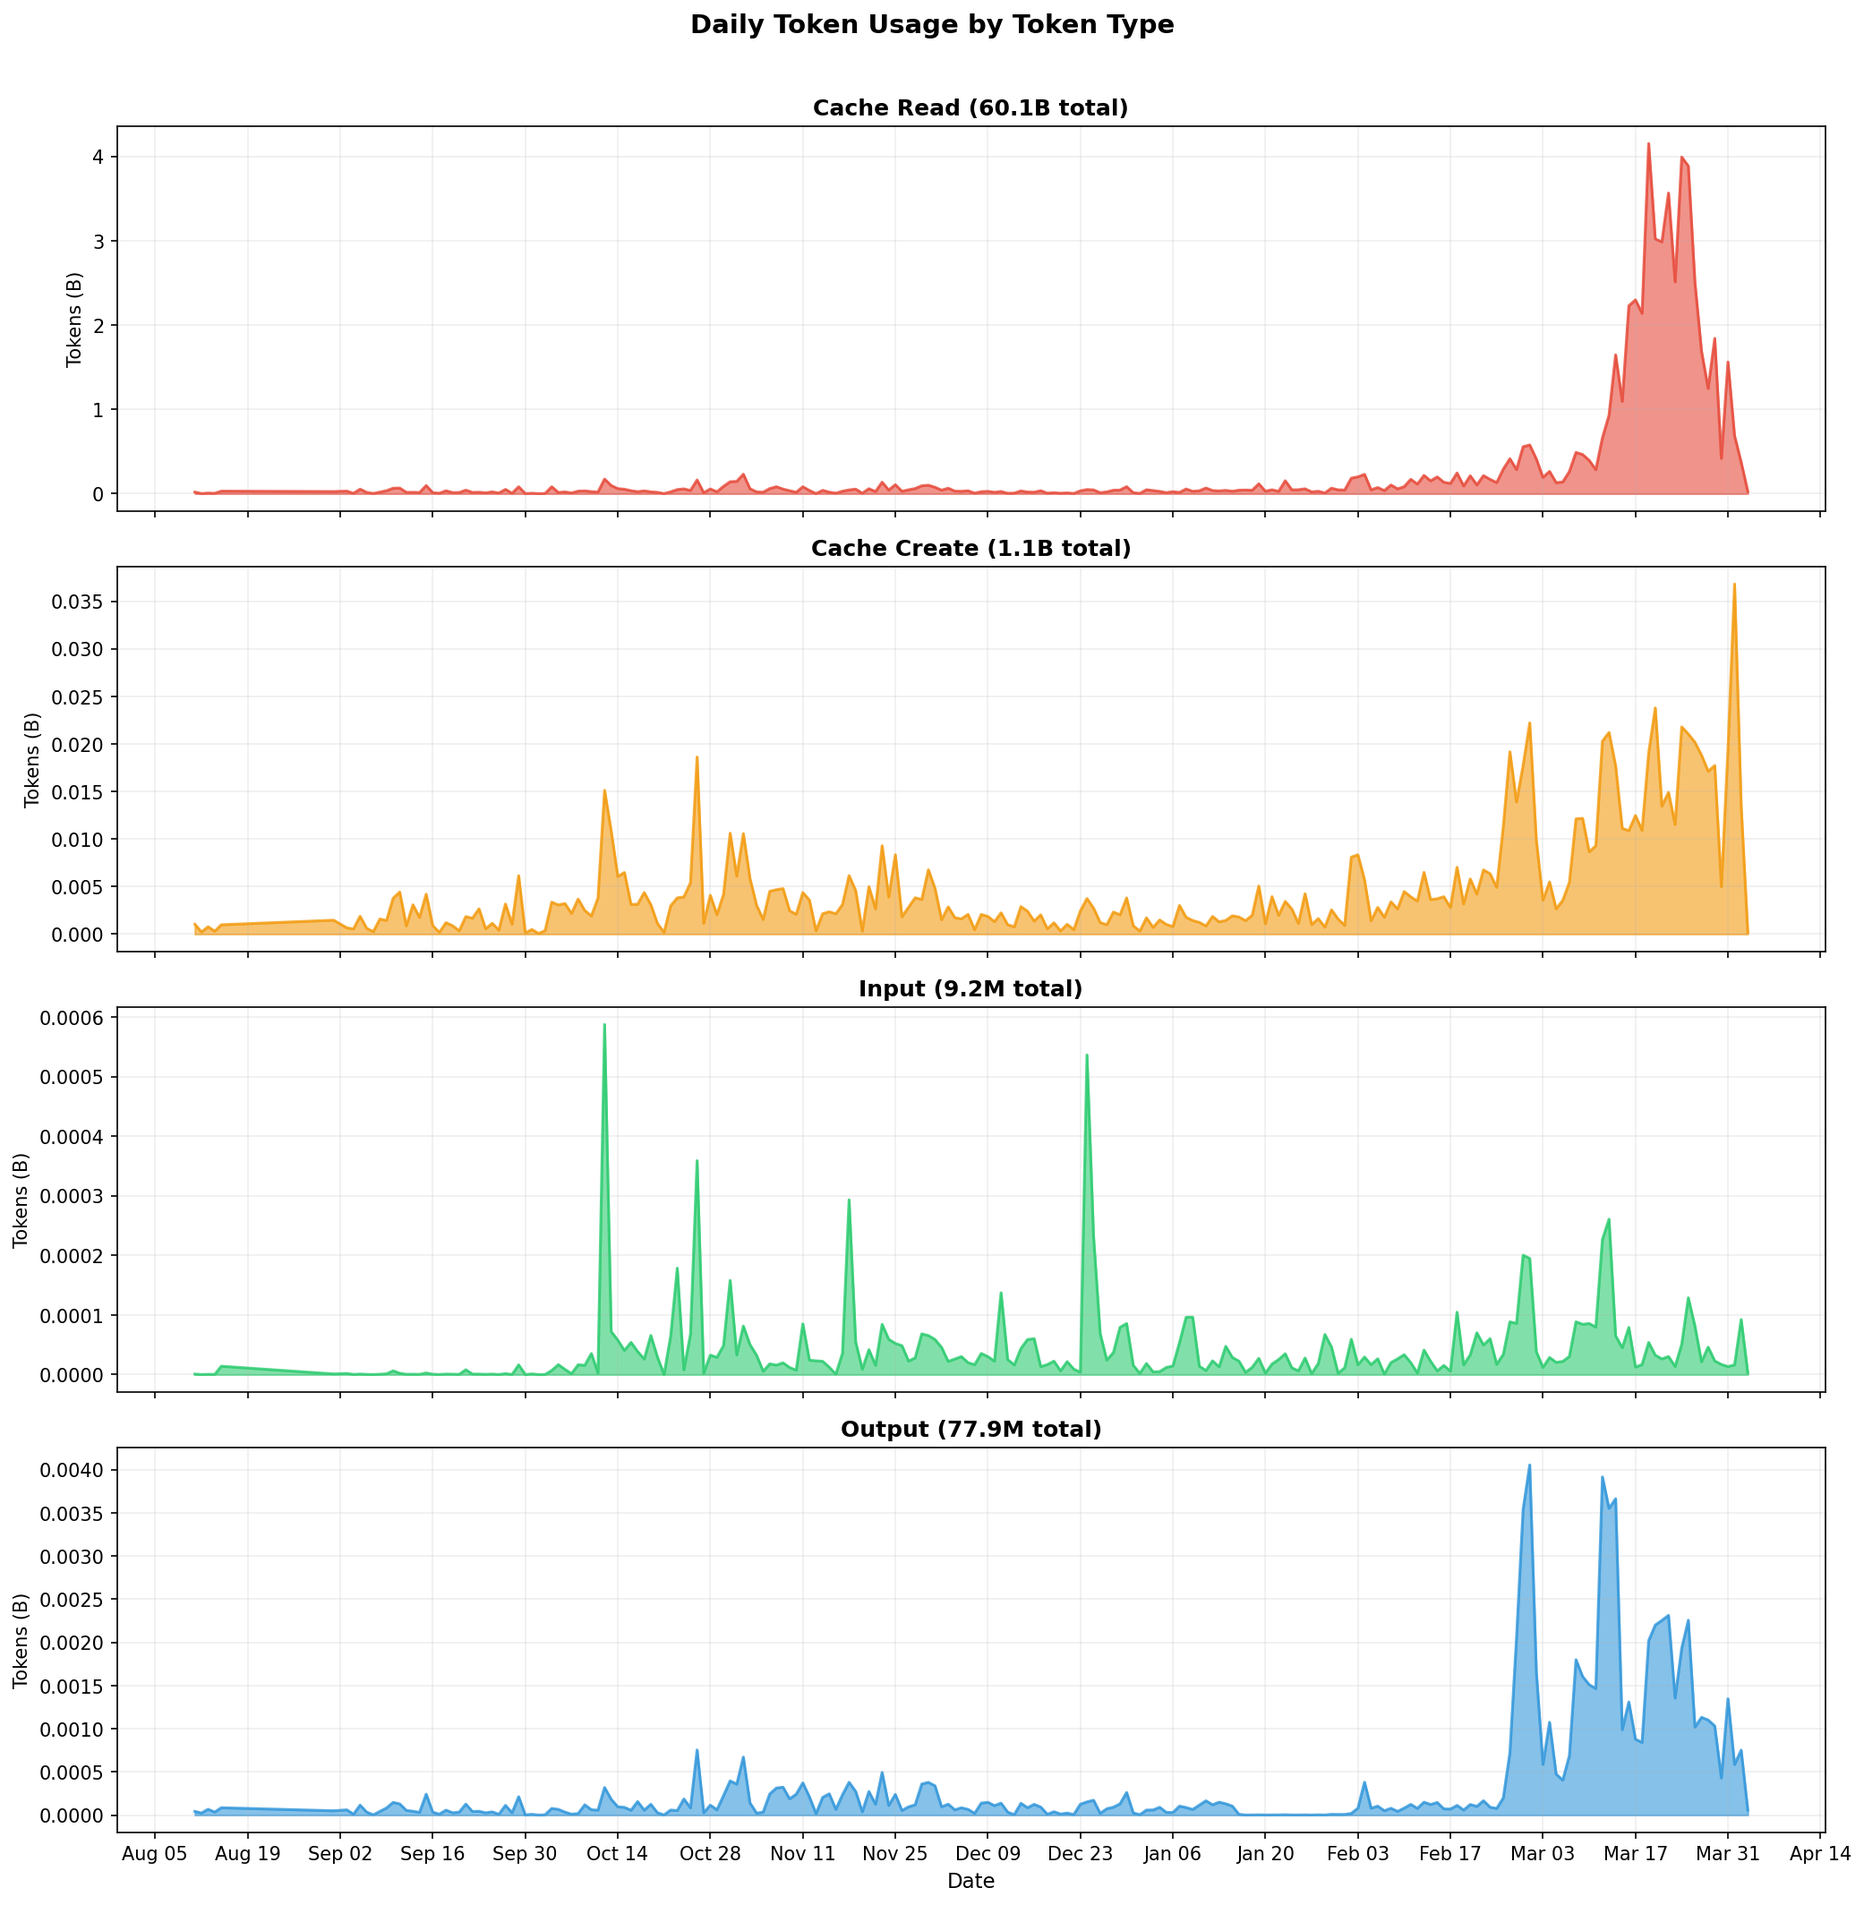
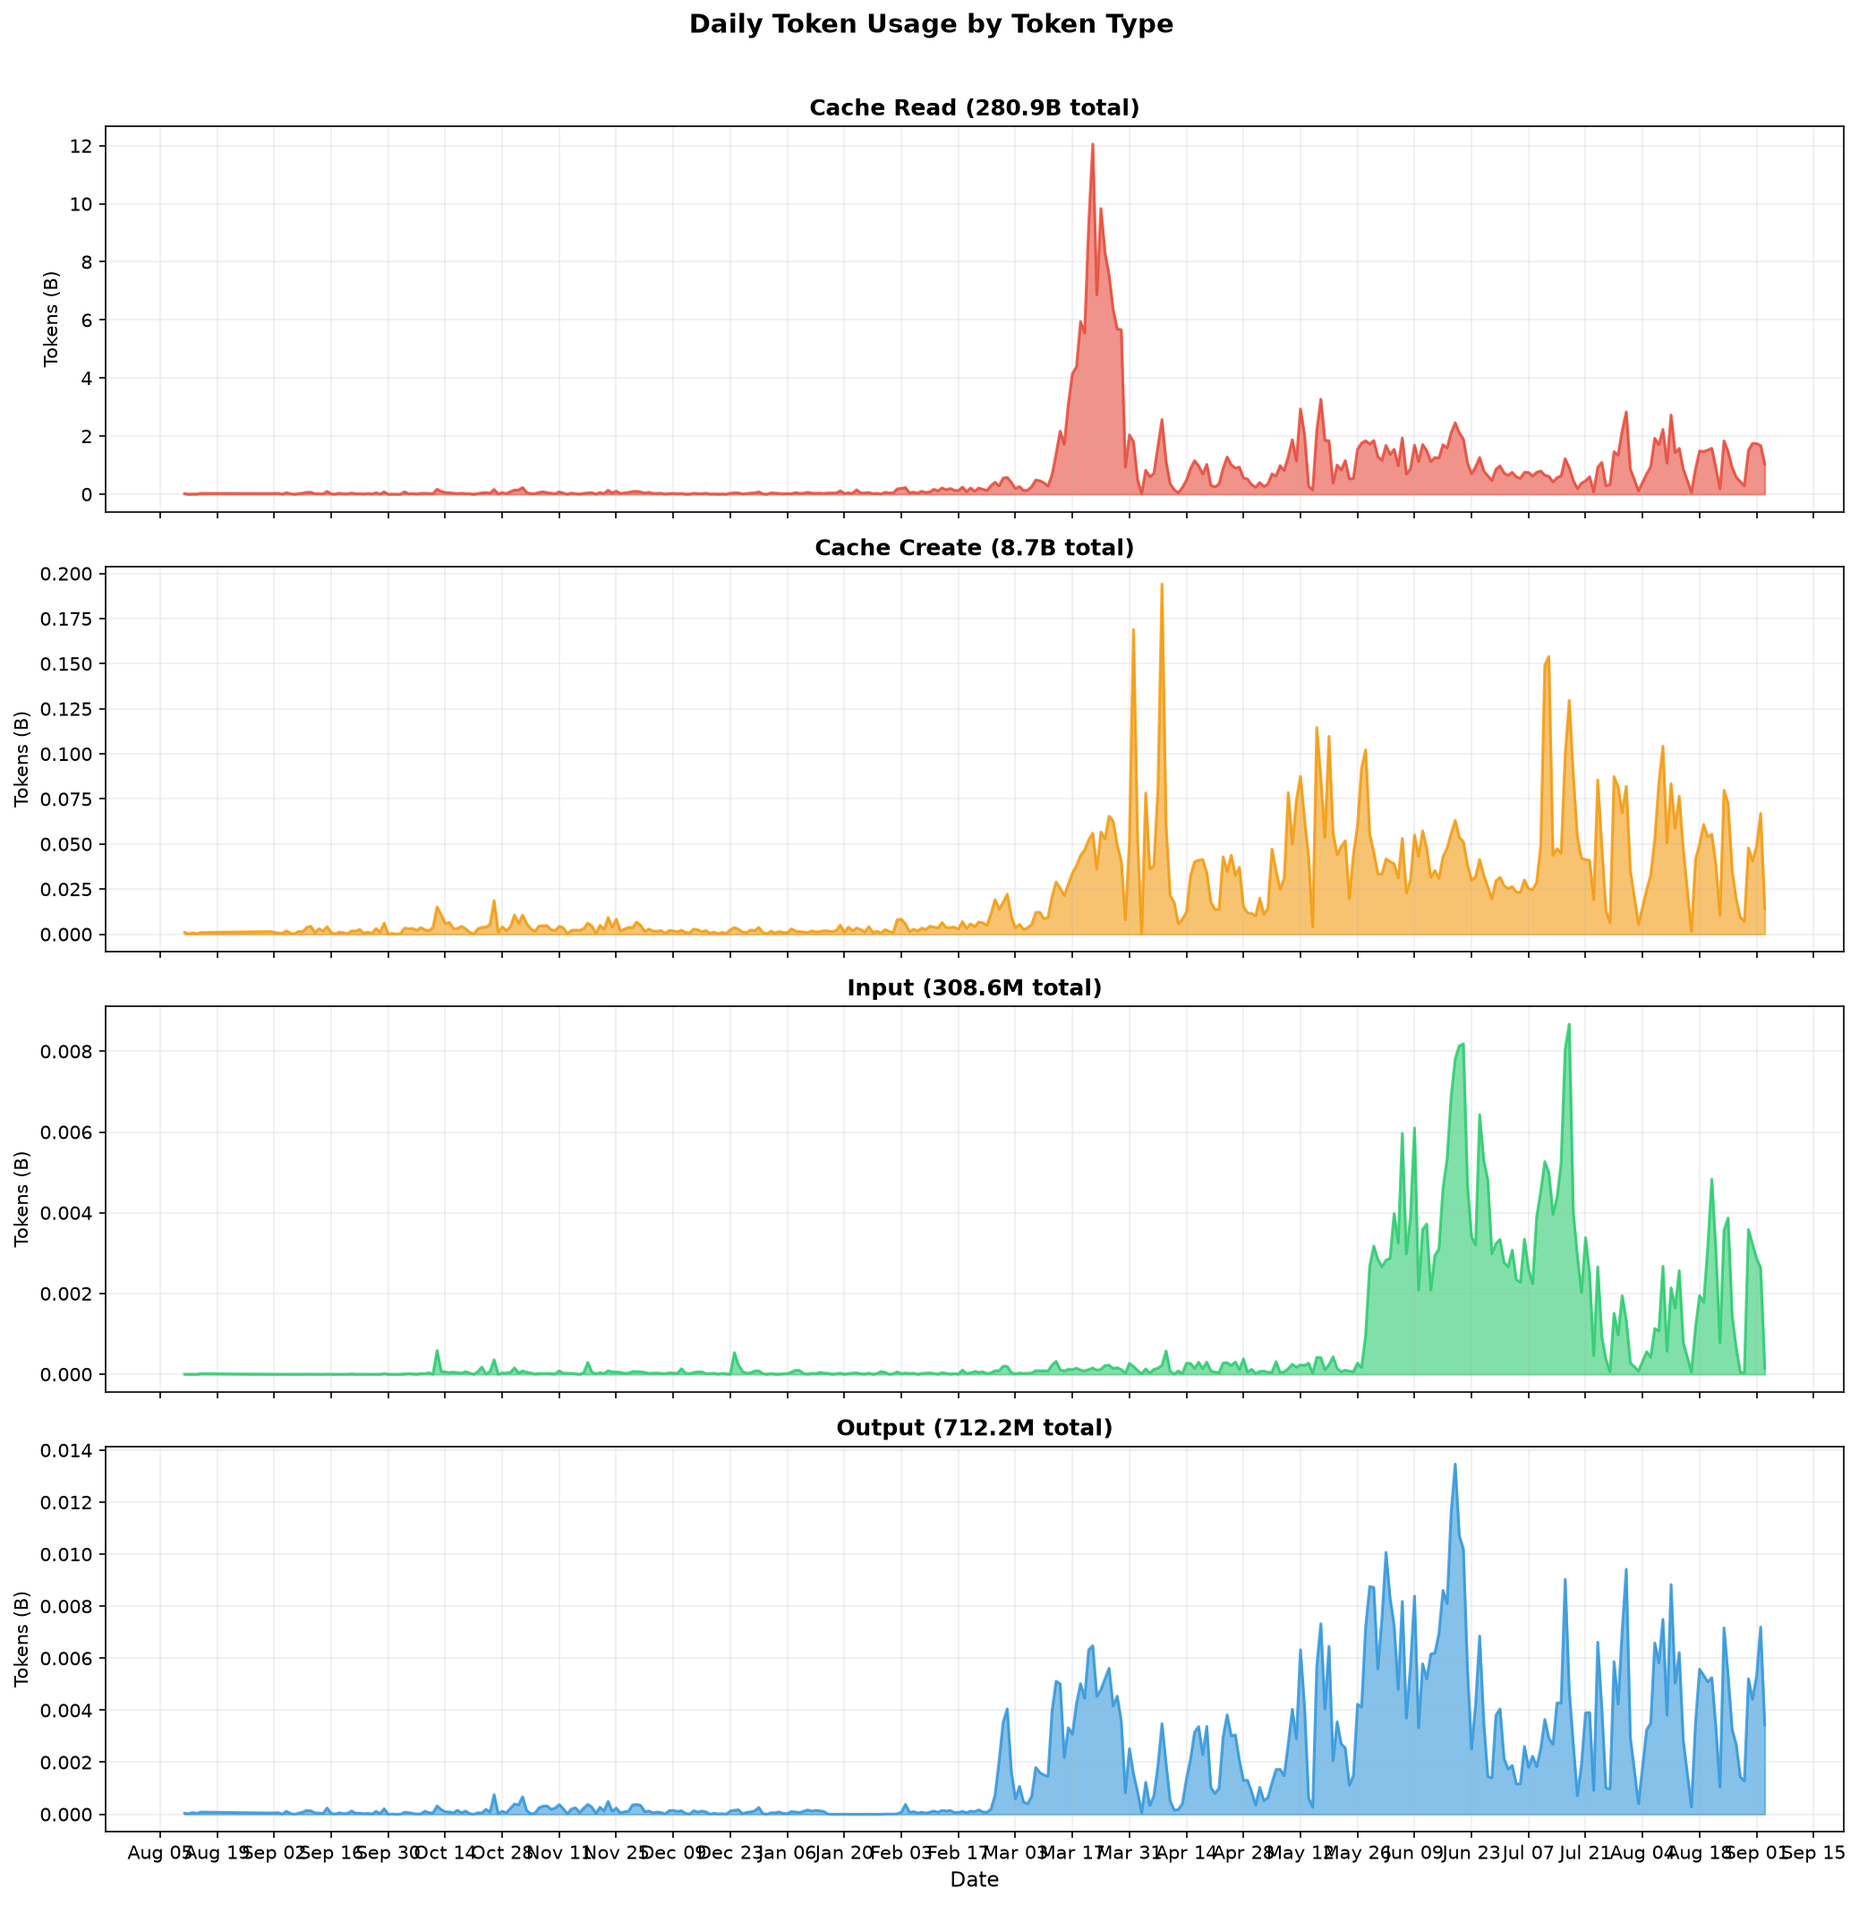
Refresh sample charts, one set per limit
The images in img/ were five months old and predated both the two-limit split
and every classification fix, so they showed a model fitted on mislabelled data
and a timeline that stopped in May.

Regenerated all six. The three analyze charts now come as a set per limit, in
img/5h/ and img/1w/, mirroring the output/<window>/ layout; the three visualize
charts stay flat. README shows both regression charts and both timelines side
by side, which is the clearest statement of the finding: the same archive, two
limits, two quite different shapes.

Chart titles now name the bucket. Untitled, the two sets are indistinguishable
side by side in the README.

Every image was checked for identifying content before being committed to a
public repository. The charts label token types, model names and window counts
only. This is worth re-checking on any future change to the plotting code: the
budget timeline used to build its baseline per profile DIRECTORY, and a legend
entry per directory would have published them.

Also removes a 60-character truncation on the coefficient column that cut off
cache_read in exactly the rows that fit all four features. It was hiding the
sharpest result in the report: controlled for cache creation, cache reads score
-0.010 (5-hour) and -0.066 (weekly). Not a weak positive but zero-to-negative,
which reframes them from "a thing to reduce" to a marker of the warm-cache
state worth aiming FOR.
[…]

diff --git a/wheres_my_tokens/reports/analyze.py b/wheres_my_tokens/reports/analyze.py
@@ -459,10 +459,12 @@ def _run_window(spec, limit_events, sorted_turns, config, group_of, output_dir):
         return
 
     _correlation_analysis(unique)
-    _feature_scatter_plots(unique, output_dir)
+    _feature_scatter_plots(unique, output_dir, label=label)
     _budget_timeline(unique, sorted_turns, config, output_dir,
                      group_of=group_of, duration=spec["duration"],
-                     stride=spec["stride"], label=label)
+                     stride=spec["stride"], label=label,
+                     all_limit_events=[e for e in limit_events
+                                       if e["source"] == "conversation"])
     _logistic_regression_analysis(limit_events, sorted_turns, config, output_dir,
                                   group_of=group_of,
                                   limit_types=spec["limit_types"],
@@ -504,7 +506,7 @@ def _correlation_analysis(points):
     print()
 
 
-def _feature_scatter_plots(points, output_dir):
+def _feature_scatter_plots(points, output_dir, label="5-hour"):
     """Generate scatter plots of each feature vs budget."""
     print(subsection_header("Feature Scatter Plots"))
 
@@ -564,7 +566,8 @@ def _feature_scatter_plots(points, output_dir):
             ax.set_ylabel("Budget at Limit ($)", fontsize=9)
             ax.grid(True, alpha=0.2)
 
-        plt.suptitle("Feature vs Budget at Rate-Limit Hit", fontsize=14, fontweight="bold")
+        plt.suptitle(f"Feature vs Budget at Rate-Limit Hit ({label} limit)",
+                     fontsize=14, fontweight="bold")
         plt.tight_layout()
         path = output_dir / "calibration_scatter.png"
         plt.savefig(path, dpi=150, bbox_inches="tight", facecolor="white")
@@ -624,7 +627,7 @@ def _dedupe_by_reset_window(points):
 
 def _budget_timeline(points, sorted_turns, config, output_dir, group_of=None,
                      duration=timedelta(hours=5), stride=timedelta(hours=5),
-                     label="5-hour"):
+                     label="5-hour", all_limit_events=None):
     """Plot cost-at-limit over time, with non-hit windows as baseline."""
     group_of = group_of or {}
     print(subsection_header("Budget Timeline"))
@@ -668,9 +671,17 @@ def _budget_timeline(points, sorted_turns, config, output_dir, group_of=None,
         non_hit_times = []
         non_hit_costs = []
         for g, group_turns in by_group.items():
-            limit_times = sorted(p["window_end"] for p in points
-                                 if (p["event"].get("group")
-                                     or p["event"]["profile"]) == g)
+            # Screen against EVERY limit event, matching how the regression
+            # builds its controls. Screening only against the plotted type
+            # leaves windows where extra usage was bought and exhausted sitting
+            # in the baseline as ordinary non-hit windows, at costs far above
+            # anything the plotted limit ever allowed.
+            limit_times = sorted(e["timestamp"] for e in (all_limit_events or [])
+                                 if (e.get("group") or e["profile"]) == g)
+            if not limit_times:
+                limit_times = sorted(p["window_end"] for p in points
+                                     if (p["event"].get("group")
+                                         or p["event"]["profile"]) == g)
             times = group_times[g]
             current = group_turns[0].timestamp + duration
             last_ts = group_turns[-1].timestamp
@@ -709,7 +720,10 @@ def _budget_timeline(points, sorted_turns, config, output_dir, group_of=None,
 
         ax.set_xlabel("Date", fontsize=12)
         ax.set_ylabel("Cost at Limit Hit ($)", fontsize=12)
-        ax.set_title("Budget at Each Rate-Limit Hit Over Time", fontsize=14, fontweight="bold")
+        # Name the bucket in the title: both windows produce this chart, and
+        # side by side they are otherwise indistinguishable.
+        ax.set_title(f"Budget at Each Rate-Limit Hit Over Time ({label} limit)",
+                     fontsize=14, fontweight="bold")
         ax.legend(fontsize=9, loc="best")
         ax.grid(True, alpha=0.2)
         ax.tick_params(axis="x", rotation=30)
@@ -800,9 +814,12 @@ def _logistic_regression_analysis(limit_events, sorted_turns, config, output_dir
         group_turns = by_group.get(g, [])
         if not group_turns:
             continue
-        # Sorted, so "is there a limit within an hour of here" is a bisect
-        # rather than a scan over every limit the group ever hit.
-        group_limit_times = sorted(e["timestamp"] for e in hard_limits
+        # Controls are screened against EVERY limit event, not just the fitted
+        # type. A window in which extra usage was bought and then exhausted is
+        # not a clean negative: it exceeded the ordinary allowance and simply
+        # did not report THIS limit, so counting it as "no hit" teaches the fit
+        # that such weeks are fine. Sorted, so the containment test is a bisect.
+        group_limit_times = sorted(e["timestamp"] for e in conv
                                    if e.get("group", e["profile"]) == g)
         first_ts = group_turns[0].timestamp
         last_ts = group_turns[-1].timestamp
@@ -862,7 +879,10 @@ def _logistic_regression_analysis(limit_events, sorted_turns, config, output_dir
     for name in sorted(results, key=lambda n: -results[n]["auc"]):
         r = results[name]
         coef_str = ", ".join(f"{f}={c:+.3f}" for f, c in zip(r["features"], r["coefs"]))
-        rows.append([name, f"{r['auc']:.4f}", coef_str[:60]])
+        # Do NOT truncate: the table auto-sizes, and a 60-char cap cut the
+        # cache_read coefficient off exactly the rows that fit all four
+        # features, which are the rows the coefficient comparison is about.
+        rows.append([name, f"{r['auc']:.4f}", coef_str])
     print(table(["Model", "AUC", "Coefficients (standardized)"], rows, "lrl"))
 
     best_name = max(results, key=lambda n: results[n]["auc"])
@@ -913,7 +933,8 @@ def _logistic_regression_analysis(limit_events, sorted_turns, config, output_dir
         ax2.set_title("Feature Importance (All 4 Token Types)", fontsize=13)
         ax2.grid(True, alpha=0.2, axis="x")
 
-        plt.suptitle("Logistic Regression: What Predicts Limit Hits?",
+        # .capitalize() leaves "5-hour" alone (leading digit) and gives "Weekly".
+        plt.suptitle(f"Logistic Regression: What Predicts {label.capitalize()} Limit Hits?",
                       fontsize=14, fontweight="bold")
         plt.tight_layout()
         path = output_dir / "logistic_regression.png"

diff --git a/README.md b/README.md
@@ -12,21 +12,28 @@ Logistic regression over ~1.4M real turns and every rate-limit event in them, fi
 
 | model | 5-hour limit | weekly limit |
 |---|---:|---:|
-| cache creation only | **0.8006** | 0.9056 |
-| cost + cache creation | 0.8001 | 0.9146 |
-| all four token types | 0.7995 | **0.9249** |
-| cost-weighted (API $) | 0.7388 | 0.7907 |
-| cache **reads** only | 0.6613 | 0.7125 |
+| **cache creation only** | **0.8051** | 0.9224 |
+| cost + cache creation | 0.8044 | 0.9238 |
+| all four token types | 0.8029 | **0.9572** |
+| cost-weighted (API $) | 0.7416 | 0.8157 |
+| cache **reads** only | 0.6643 | 0.7451 |
 
-*(AUC. 88 hit / 2,440 control windows for the 5-hour fit; 44 / 590 for the weekly one.)*
+*(AUC. 88 hit / 2,335 control windows for the 5-hour fit; 44 / 354 for the weekly one.)*
 
-- **Cache creation is the limit driver, in both buckets.** For the 5-hour limit it alone is the *best* model — adding the other three token types makes it slightly worse. For the weekly limit it carries a standardised coefficient of **+2.2**, several times anything else.
-- **Dollar cost is not what's being metered.** Pair cost with cache creation and cost's coefficient goes **negative** in both fits (-0.04 and -0.54): once you know how much cache a window wrote, spending *more* predicts *fewer* limit hits. Cache creation is worth +0.06 AUC over cost alone on the 5-hour limit and +0.12 on the weekly one.
+- **Cache creation is the limit driver, in both buckets.** For the 5-hour limit it alone is the *best* model — adding the other three token types makes it slightly worse. For the weekly limit it carries a standardised coefficient of **+3.2**, roughly double the next largest.
+- **Dollar cost is not what's being metered.** Pair cost with cache creation and cost's coefficient goes **negative** in both fits: once you know how much cache a window wrote, spending *more* predicts *fewer* limit hits. Cache creation is worth +0.06 AUC over cost alone on the 5-hour limit and +0.11 on the weekly one.
+- **Cache reads look like the *good* state, not a risk.** Controlled for cache creation their coefficient is -0.010 (5-hour) and -0.066 (weekly). They are ~97% of all tokens, so on their own they correlate with everything, but once cache creation is in the model they carry essentially nothing. A window heavy in reads and light in creation is a long warm session — which is exactly the state to aim for.
 - **The two limits behave differently and need separate models.** The 5-hour limit is driven almost entirely by one feature; the weekly limit genuinely is a weighted combination. Fitting them together — which this tool did for months — is worth roughly -0.14 AUC.
-- **Cache reads are a red herring.** They are ~97% of all tokens and among the *weakest* discriminators in both fits. The number that dominates every usage dashboard is close to the least useful one to act on.
 
-![Logistic Regression](img/logistic_regression.png)
-*(Run `wheres-my-tokens analyze` to reproduce this on your own data)*
+**5-hour session limit** — one feature does almost all the work:
+
+![Logistic Regression, 5-hour limit](img/5h/logistic_regression.png)
+
+**Weekly limit** — a genuine weighted combination, and cache creation dominates it:
+
+![Logistic Regression, weekly limit](img/1w/logistic_regression.png)
+
+*(Run `wheres-my-tokens analyze` to reproduce both on your own data)*
 
 **Caveat on the weekly numbers:** its control windows overlap (see `analyze` below), so its AUC is a ranking rather than a calibrated probability, and its apparent edge over the 5-hour model is not a like-for-like comparison.
 
@@ -109,12 +116,16 @@ Each window writes its charts to its own `output/<window>/` subdirectory, so the
 A caveat on the weekly fit: control windows are sampled daily rather than weekly, because a week-long window stepped by a week yields only ~45 controls per account per year. Those controls overlap and so are not independent samples — read the weekly AUC as a ranking, not as a calibrated probability, and don't compare its confidence to the 5-hour model's.
 
 #### Budget at each rate-limit hit over time
-![Budget Timeline](img/budget_timeline.png)
+
+Grey dots are windows that did *not* hit a limit, so the gap between the clouds is the thing to read. Note how much lower the weekly ceiling sits relative to the traffic underneath it.
+
+![Budget Timeline, 5-hour limit](img/5h/budget_timeline.png)
+![Budget Timeline, weekly limit](img/1w/budget_timeline.png)
 
 #### Feature correlations with limit hits
-![Calibration Scatter](img/calibration_scatter.png)
+![Calibration Scatter, 5-hour limit](img/5h/calibration_scatter.png)
 
-*(Note: The Logistic Regression chart shown earlier is also generated by this command)*
+*(Note: The Logistic Regression charts shown earlier are also generated by this command. Each window writes a full set to `output/<window>/`; only the 5-hour scatter is reproduced here.)*
 
 ## Filtering
 
